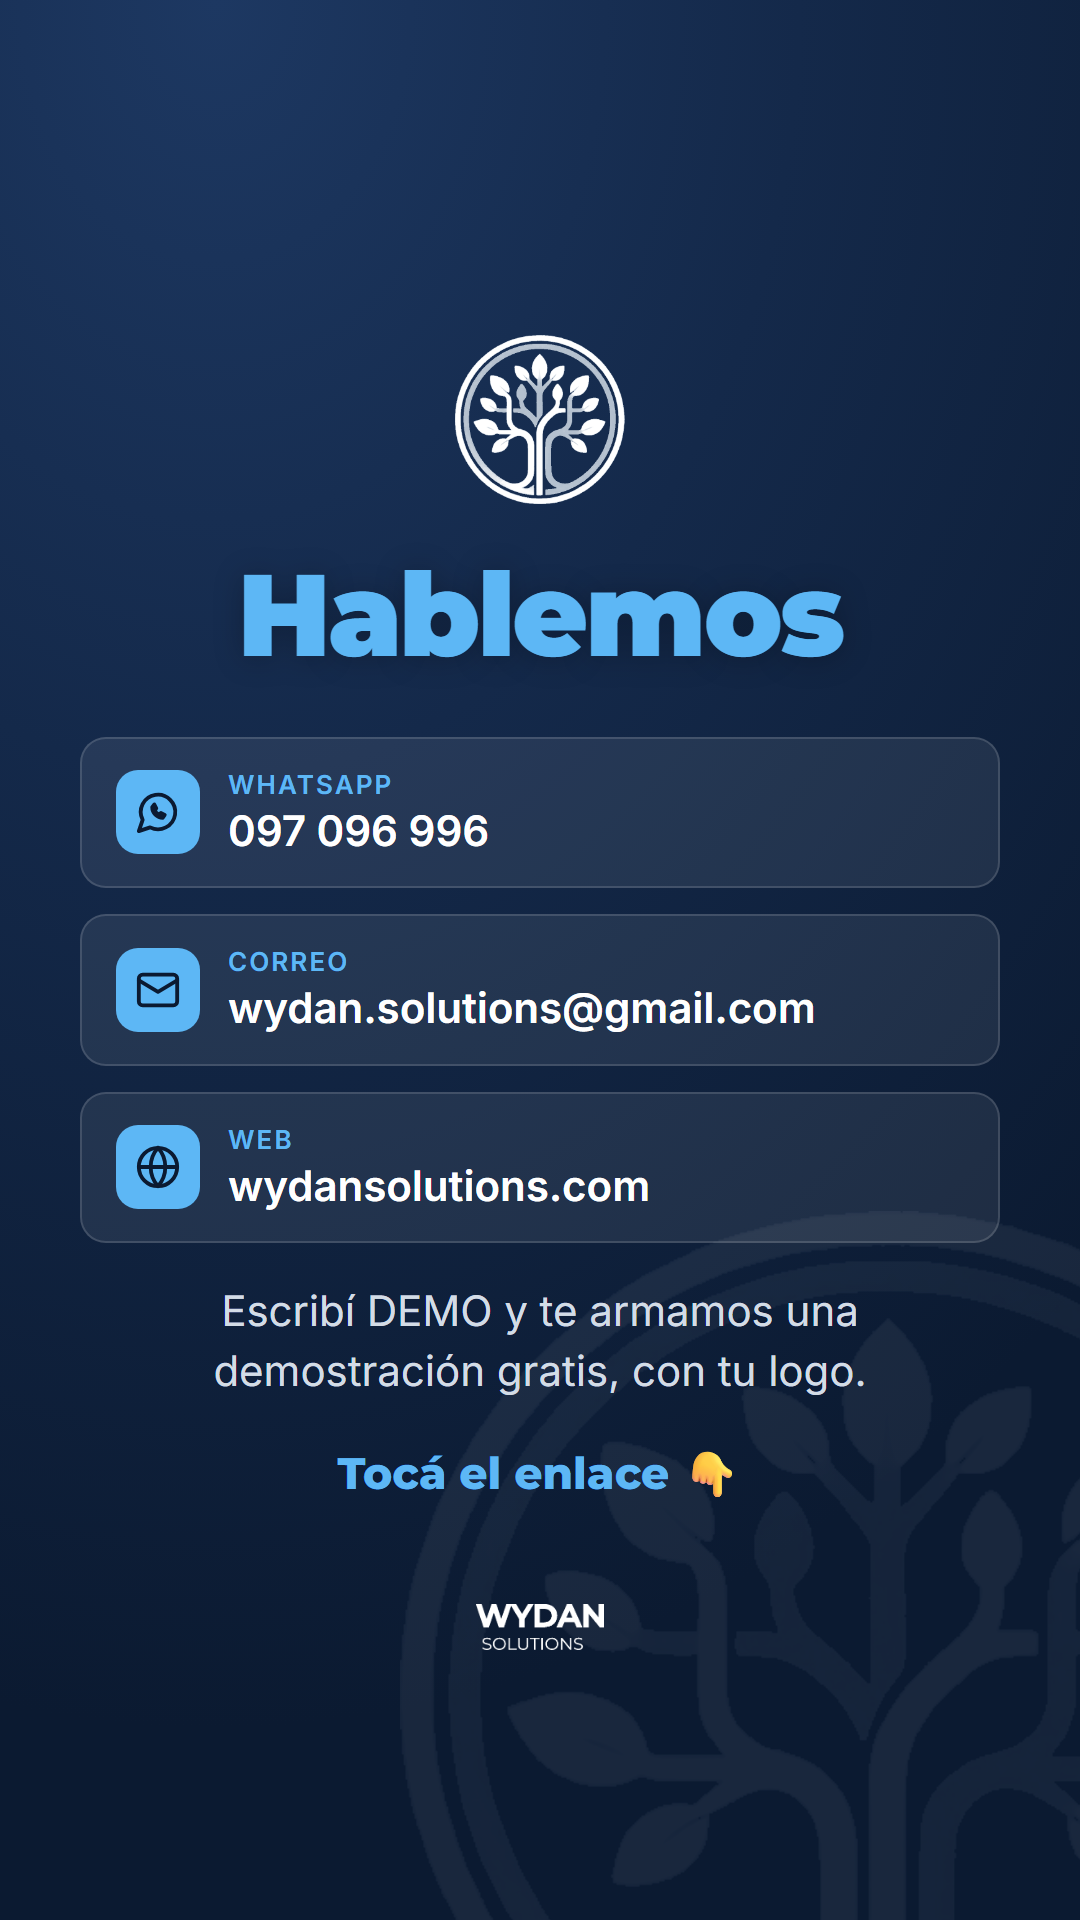
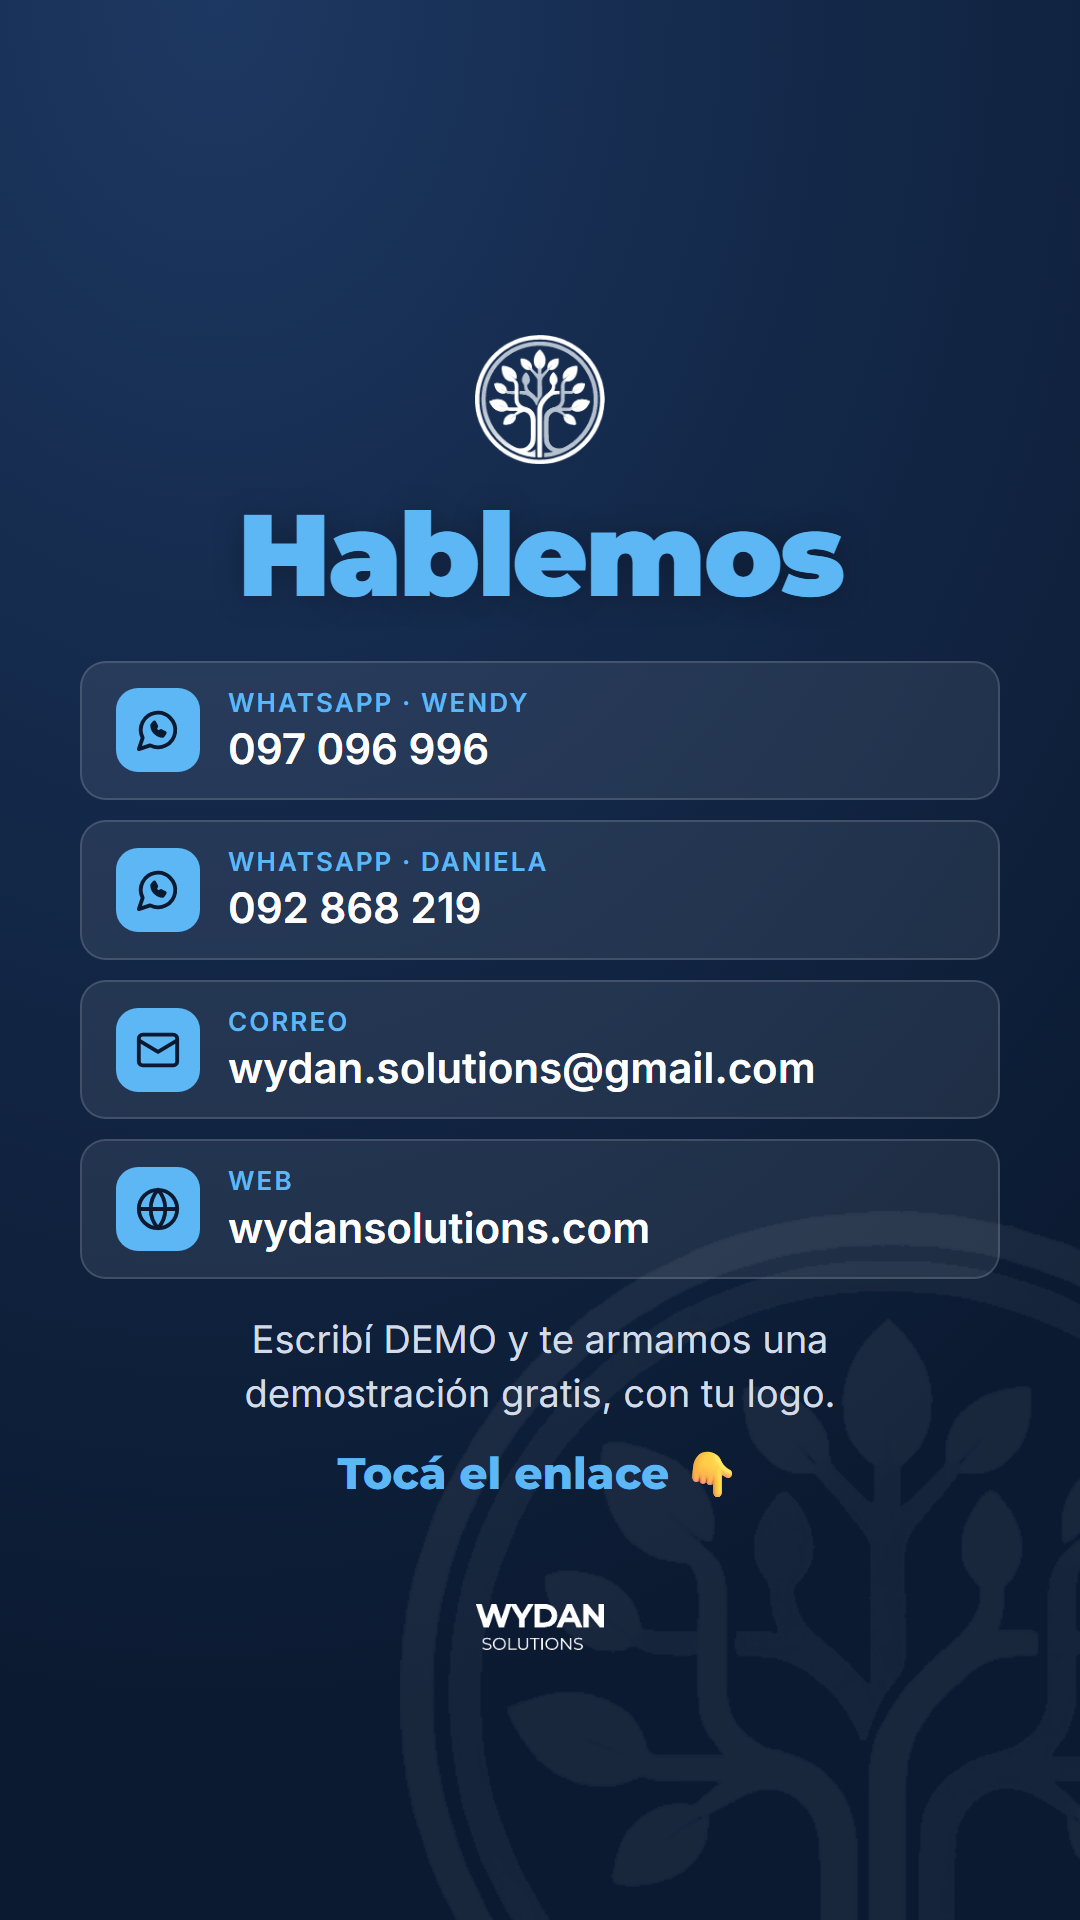
Contacto: los dos WhatsApp de Wydan (Wendy y Daniela)

Changed region(s): [[0.0917, 0.1562, 0.7944, 0.75]]

diff --git a/publicaciones.js b/publicaciones.js
@@ -6,6 +6,11 @@
 // pos: qué parte de la foto se ve (como background-position). sticker: la etiqueta inclinada de la portada.
 
 const WHATSAPP = '097 096 996';
+// Los dos WhatsApp de Wydan (los mismos de la página comercial, Wydan-Web). WHATSAPP es el que va en los botones.
+const CONTACTOS = [
+  { nombre: 'Wendy', numero: '097 096 996' },
+  { nombre: 'Daniela', numero: '092 868 219' },
+];
 
 const HASHTAGS = '#Wydan #PymesUruguay #EmprendedoresUruguay #Rivera #Uruguay';
 
@@ -317,4 +322,4 @@ const CRONOGRAMA = [
   { fecha: '2026-11-30', tipo: 'revision', titulo: 'Balance del primer mes', detalle: 'Seguidores, mensajes, demos pedidas y ventas. Con eso se ajusta el plan.' },
 ];
 
-if (typeof module !== 'undefined') module.exports = { PUBLICACIONES, DESTACADAS, HISTORIAS, CRONOGRAMA, WHATSAPP };
+if (typeof module !== 'undefined') module.exports = { PUBLICACIONES, DESTACADAS, HISTORIAS, CRONOGRAMA, WHATSAPP, CONTACTOS };

diff --git a/index.html b/index.html
@@ -188,7 +188,7 @@ Tu negocio ordenado en una página hecha para vos
   <div id="publicaciones"></div>
 </div>
 
-<script src="publicaciones.js?v=202610291755"></script>
+<script src="publicaciones.js?v=202610291756"></script>
 <script>
   const VIDEOS = 'videos/';
   const carpeta = p => `imagenes/${String(p.n).padStart(2, '0')}-${p.id}/`;
